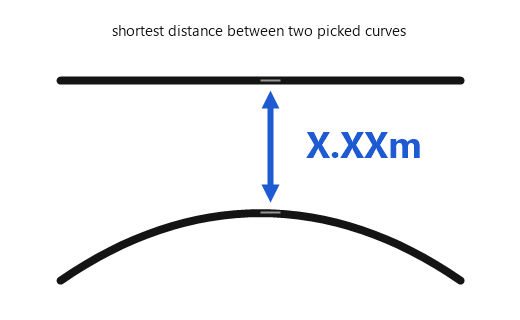
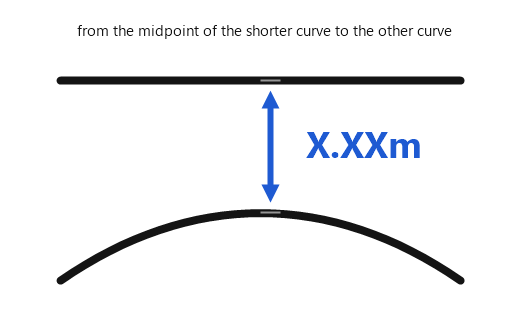
Refine CurveDistance documentation and update tooltip image for clarity

Changed region(s): [[0.1538, 0.0625, 0.8615, 0.125]]

diff --git a/ADA TOOLS.extension/ADA TOOLS.Tab/QTO.Panel/CurveDistance.pushbutton/script.py b/ADA TOOLS.extension/ADA TOOLS.Tab/QTO.Panel/CurveDistance.pushbutton/script.py
@@ -1,17 +1,18 @@
 # -*- coding: utf-8 -*-
 __doc__ = """Pick two curves (in the current model and/or in a linked model)
-and get the shortest distance between them.
+and get the distance between them.
 
 Curves are picked the same way as in "Get Length (Curve)": edges of
 solid geometry (walls, pipes, framing...) as well as Model Lines /
-Detail Lines / Reference Lines. For two parallel edges the result is
-their perpendicular distance; otherwise it is the shortest distance
-between any point of the first curve and any point of the second.
+Detail Lines / Reference Lines. The distance is measured from the
+MIDPOINT of the shorter of the two curves to the closest point of the
+other curve - for two parallel edges that is their perpendicular
+distance, with the arrow centred on the shorter edge.
 
-Visualization: a blue double-headed arrow is drawn between the two
-closest points (lifted slightly toward the view so it is not hidden
-in the surface), with short witness lines back to the curves and a
-blue 3D digit readout of the distance in meters next to it.
+Visualization: a blue double-headed arrow is drawn from that midpoint
+to the other curve (lifted slightly toward the view so it is not
+hidden in the surface), with short witness lines back to the curves
+and a blue 3D digit readout of the distance in meters next to it.
 
 Markers from earlier runs are kept - measure as many pairs as you
 like; use "Clear QTO Markers" to remove them all."""
@@ -41,29 +42,32 @@ SOURCE_CURRENT = "Both in Current Model"
 SOURCE_LINKED = "Both in Linked Model"
 SOURCE_MIXED = "1st Current, 2nd Linked"
 
-ARROWHEAD_LENGTH = 0.35        # feet
-ARROWHEAD_RADIUS = 0.13        # feet
+# Size of the whole marker (arrow + digits) relative to the other QTO tools
+MARKER_SCALE = 0.5
+
+ARROWHEAD_LENGTH = 0.35 * MARKER_SCALE   # feet
+ARROWHEAD_RADIUS = 0.13 * MARKER_SCALE   # feet
 ARROWHEAD_SIDES = 16
-SHAFT_RADIUS = 0.045           # feet
+SHAFT_RADIUS = 0.045 * MARKER_SCALE      # feet
 SHAFT_SIDES = 12
-WITNESS_RADIUS = 0.03          # feet
+WITNESS_RADIUS = 0.03 * MARKER_SCALE     # feet
 WITNESS_SIDES = 8
-ARROW_LIFT = 0.15              # feet, toward the viewer so the arrow is not buried in the face
-TEXT_STANDOFF = 0.6            # feet, sideways (in the view plane) from the arrow's middle
-TOUCH_TOL = 1e-4               # feet, below this the curves are considered touching
+ARROW_LIFT = 0.15 * MARKER_SCALE         # feet, toward the viewer so the arrow is not buried in the face
+TEXT_STANDOFF = 0.6 * MARKER_SCALE       # feet, sideways (in the view plane) from the arrow's middle
+TOUCH_TOL = 1e-4                         # feet, below this the curves are considered touching
 
 MARKER_COLOR = DB.Color(30, 90, 210)     # blue
 MARKER_LINE_COLOR = DB.Color(0, 0, 0)    # black edges
 DIGIT_COLOR = DB.Color(30, 90, 210)      # blue, matches the arrow
-DIGIT_OFFSET = 0.05                      # feet, nudge digits toward the viewer
+DIGIT_OFFSET = 0.05 * MARKER_SCALE       # feet, nudge digits toward the viewer
 
 # --- 7-segment digit geometry (same technique as Get Length / Get Surface) -
-DIGIT_W = 0.95
-DIGIT_H = 1.75
-STROKE = 0.24
-DIGIT_GAP = 0.30
-DOT_W = 0.42
-DEPTH = 0.13
+DIGIT_W = 0.95 * MARKER_SCALE
+DIGIT_H = 1.75 * MARKER_SCALE
+STROKE = 0.24 * MARKER_SCALE
+DIGIT_GAP = 0.30 * MARKER_SCALE
+DOT_W = 0.42 * MARKER_SCALE
+DEPTH = 0.13 * MARKER_SCALE
 
 SEGMENT_RECTS = {
     'A': (STROKE * 0.5, DIGIT_H - STROKE, DIGIT_W - STROKE * 0.5, DIGIT_H),
@@ -314,8 +318,8 @@ def find_curve_at_point(element, point):
 
 
 def pick_curve(linked, ordinal):
-    """Pick one curve; returns (points_in_host_coords, curve_length_ft,
-    description)."""
+    """Pick one curve; returns (points_in_host_coords, midpoint_in_host_coords,
+    curve_length_ft, description)."""
     if linked:
         ref = uidoc.Selection.PickObject(
             UI.Selection.ObjectType.LinkedElement,
@@ -346,9 +350,11 @@ def pick_curve(linked, ordinal):
                     exitscript=True)
 
     points = list(curve.Tessellate())
+    midpoint = curve.Evaluate(0.5, True)
     if transform is not None:
         points = [transform.OfPoint(p) for p in points]
-    return points, curve.Length, desc
+        midpoint = transform.OfPoint(midpoint)
+    return points, midpoint, curve.Length, desc
 
 
 # ---------------------------------------------------------------------------
@@ -391,15 +397,14 @@ def closest_points_segments(p1, q1, p2, q2):
     return p1.Add(d1.Multiply(s)), p2.Add(d2.Multiply(t))
 
 
-def closest_points_polylines(pts_a, pts_b):
-    best = None
-    for i in range(len(pts_a) - 1):
-        for j in range(len(pts_b) - 1):
-            ca, cb = closest_points_segments(pts_a[i], pts_a[i + 1],
-                                             pts_b[j], pts_b[j + 1])
-            d = ca.DistanceTo(cb)
-            if best is None or d < best[2]:
-                best = (ca, cb, d)
+def closest_point_on_polyline(point, pts):
+    """Closest point to `point` on the polyline `pts`."""
+    best, best_d = None, None
+    for i in range(len(pts) - 1):
+        _, c = closest_points_segments(point, point, pts[i], pts[i + 1])
+        d = point.DistanceTo(c)
+        if best_d is None or d < best_d:
+            best, best_d = c, d
     return best
 
 
@@ -422,10 +427,17 @@ try:
     first_linked = source == SOURCE_LINKED
     second_linked = source in (SOURCE_LINKED, SOURCE_MIXED)
 
-    pts_a, len_a, desc_a = pick_curve(first_linked, "first")
-    pts_b, len_b, desc_b = pick_curve(second_linked, "second")
+    pts_a, mid_a, len_a, desc_a = pick_curve(first_linked, "first")
+    pts_b, mid_b, len_b, desc_b = pick_curve(second_linked, "second")
 
-    pa, pb, dist = closest_points_polylines(pts_a, pts_b)
+    # measure from the midpoint of the shorter curve to the other curve
+    if len_a <= len_b:
+        pa, from_label = mid_a, "1st"
+        pb = closest_point_on_polyline(pa, pts_b)
+    else:
+        pa, from_label = mid_b, "2nd"
+        pb = closest_point_on_polyline(pa, pts_a)
+    dist = pa.DistanceTo(pb)
     dist_m = dist * 0.3048
     delta = pb.Subtract(pa)
     horizontal_m = math.sqrt(delta.X ** 2 + delta.Y ** 2) * 0.3048
@@ -437,7 +449,9 @@ try:
                  [["1st", desc_a, "{:.2f} m".format(len_a * 0.3048)],
                   ["2nd", desc_b, "{:.2f} m".format(len_b * 0.3048)]])
 
-    report.subheader("Shortest Distance")
+    report.subheader("Distance")
+    report.line("Measured from the midpoint of the shorter curve ({}) to the "
+                "closest point of the other curve.".format(from_label))
     report.line("Distance: <b>{:.3f} m</b> ({:.0f} mm)".format(dist_m, dist * 304.8))
     report.line("Horizontal component: {:.3f} m &nbsp;|&nbsp; Vertical component: "
                 "{:.3f} m".format(horizontal_m, vertical_m))
